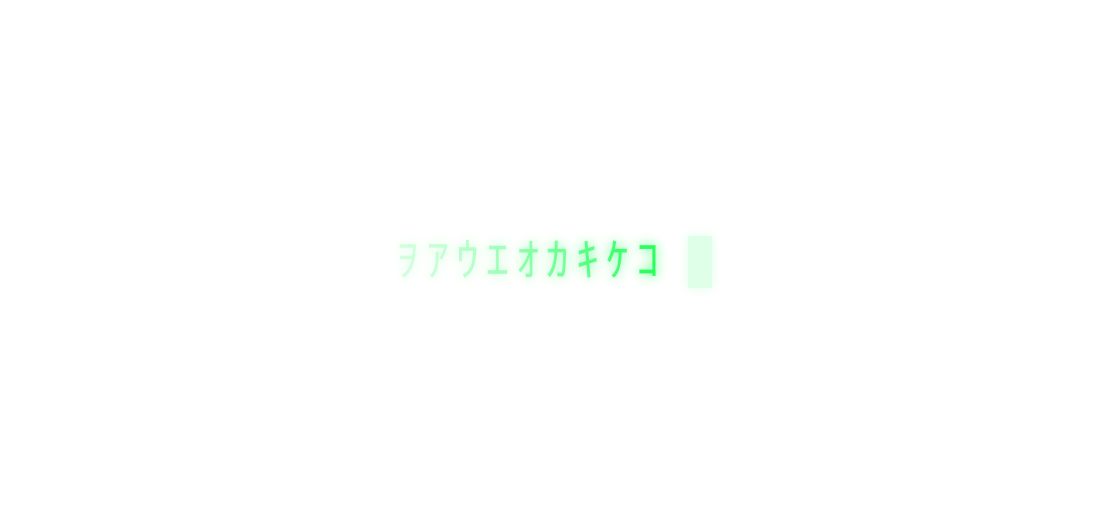
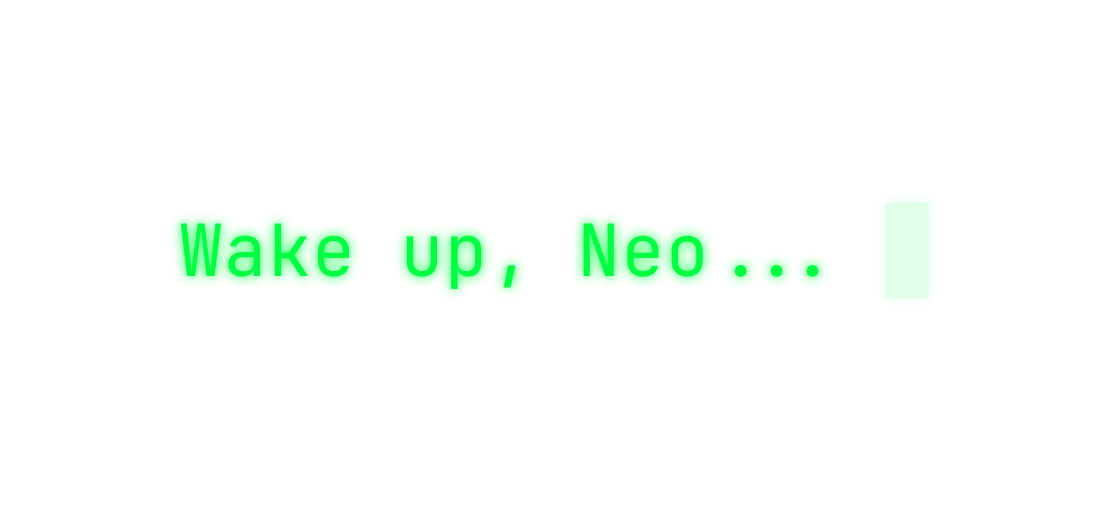
El arranque teclea la frase, derivando el script de Plymouth
El splash de Omarchy es un tema de SCRIPT (omarchy.script, ModuleName=script) y
lo que `omarchy plymouth set-by-theme` deja cambiar son tres cosas: fondo, color
de texto y un PNG estatico. Por esa puerta no entra una animacion — es la misma
forma de techo que tenia el lock.

Asi que se deriva igual: se parte del omarchy.script de la maquina y se le
sustituye el logo estatico por las cuatro frases del principio de la pelicula,
tecleadas. Todo lo demas (dialogo de contrasena, barra de progreso, mensajes) es
el de Omarchy sin tocar, y se instala como tema APARTE en
/usr/share/plymouth/themes/omarchy-matrix/ para no pisar el suyo.

Tres decisiones que conviene explicar:

- La tabla de pasos se genera en Python y llega al .script con cada texto ya
  literal. Asi el script no necesita SubString, Length ni concatenar cadenas, que
  es codigo que no puedo probar sin arrancar la maquina.
- El cuerpo de la letra se calcula al derivar desde el ancho NATIVO del panel
  (aqui 3072 px -> 61 pt). Plymouth dibuja a resolucion nativa, no a la logica:
  un cuerpo pensado para 1080p saldria diminuto en este portatil.
- logo.png se sigue cargando aunque invisible. Su caja es la que usa
  omarchy.script para colocar el dialogo de contrasena, y no queremos moverlo.

Sobre el riesgo, que aqui es real: este disco es LUKS y el hook `encrypt` esta en
mkinitcpio.conf, o sea que Plymouth es tambien quien pide la frase de paso. Por
[…]

Changed region(s): [[0.1534, 0.3977, 0.7671, 0.5813], [0.7978, 0.3671, 0.8592, 0.5813]]

diff --git a/bin/derivar-plymouth.py b/bin/derivar-plymouth.py
@@ -1,0 +1,319 @@
+#!/usr/bin/env python3
+"""Deriva un arranque Matrix a partir del Plymouth que tenga esta maquina.
+
+El splash de Omarchy es un tema de SCRIPT (`omarchy.script`), y lo que
+`omarchy plymouth set-by-theme` deja cambiar son tres cosas: color de fondo,
+color de texto y un PNG estatico. Por esa puerta no entra una animacion.
+
+Asi que se hace como con el lock: se parte del `omarchy.script` de
+$OMARCHY_PATH y se le aplica un parche minimo que sustituye el logo estatico
+por la linea que se teclea. Todo lo demas —dialogo de contrasena, barra de
+progreso, mensajes de arranque— es el de Omarchy, sin tocar. Un hook
+post-update.d vuelve a derivarlo tras cada `omarchy update`.
+
+Se instala como tema APARTE, /usr/share/plymouth/themes/omarchy-matrix/, para
+no pisar el de Omarchy: volver es `omarchy plymouth reset`.
+
+    ./derivar-plymouth.py --preparar        # solo construye, sin sudo
+    ./derivar-plymouth.py                   # construye e instala
+
+OJO: el disco de esta maquina esta cifrado, asi que Plymouth es tambien quien
+pide la frase de paso al arrancar. Por eso el parche es aditivo y no toca
+ninguno de los callbacks de contrasena, y por eso se instala aparte.
+"""
+
+import os
+import re
+import shutil
+import subprocess
+import sys
+import tempfile
+from pathlib import Path
+
+OMARCHY = Path(os.environ.get("OMARCHY_PATH", "/usr/share/omarchy"))
+ORIGEN = OMARCHY / "default/plymouth"
+TEMA = "omarchy-matrix"
+DESTINO = Path("/usr/share/plymouth/themes") / TEMA
+
+# Las cuatro frases del principio de la pelicula, en orden.
+FRASES = [
+    "Wake up, Neo...",
+    "The Matrix has you...",
+    "Follow the white rabbit.",
+    "Knock, knock, Neo.",
+]
+CURSOR = "█"          # bloque lleno: el cursor del terminal
+FUENTE = "JetBrainsMono Nerd Font"
+# El cuerpo NO es fijo: Plymouth dibuja a la resolucion NATIVA del panel, no a
+# la logica. En este portatil son 3072 px, asi que un cuerpo pensado para 1080p
+# saldria diminuto. Se calcula al derivar, que es cuando se sabe en que maquina
+# estamos, y se escribe en el .plymouth.
+ANCHO_LINEA = 0.40         # que fraccion del ancho de pantalla ocupa la frase larga
+AVANCE_MONO = 0.60         # ancho de celda / em en JetBrains Mono
+FPS = 50                   # el que asume omarchy.script
+PASOS_LETRA = 3            # fotogramas por caracter -> ~17 pulsaciones/s
+ESPERA = 15                # fotogramas por medio parpadeo del cursor
+PARPADEOS = 4              # medios parpadeos al terminar cada frase
+
+
+def morir(mensaje):
+    print(f"derivar-plymouth: {mensaje}", file=sys.stderr)
+    sys.exit(1)
+
+
+def ancho_pantalla():
+    """El ancho NATIVO del monitor mas grande. Plymouth no sabe de escalado."""
+    try:
+        import json
+        salida = subprocess.run(["hyprctl", "monitors", "-j"],
+                                capture_output=True, text=True, check=True).stdout
+        anchos = [m["width"] for m in json.loads(salida)]
+        return max(anchos) if anchos else 1920
+    except Exception:
+        return 1920
+
+
+def cuerpo_para(ancho):
+    """Puntos para que la frase mas larga ocupe ANCHO_LINEA de la pantalla."""
+    celdas = max(len(f) for f in FRASES) + 1          # +1 por el cursor
+    px_celda = (ancho * ANCHO_LINEA) / celdas
+    return max(12, round(px_celda / AVANCE_MONO * 0.75))   # px -> puntos a 96 dpi
+
+
+def fuente_disponible():
+    """La fuente tiene que existir: el hook de mkinitcpio la resuelve con
+    fc-match desde el `Font=` del .plymouth y la mete en el initramfs. Si no
+    esta, el arranque se quedaria sin texto."""
+    try:
+        salida = subprocess.run(["fc-match", "-f", "%{family}", FUENTE],
+                                capture_output=True, text=True, check=True).stdout
+    except (OSError, subprocess.CalledProcessError):
+        return "monospace"
+    return FUENTE if FUENTE.lower() in salida.lower() else "monospace"
+
+
+def guion_animacion():
+    """El guion de la animacion, ya resuelto en pasos.
+
+    Se genera aqui y no en el script de Plymouth a proposito: asi el .script no
+    necesita SubString, Length ni concatenar cadenas. Cada paso lleva su texto
+    literal, cuantos fotogramas dura y a que frase pertenece (para colocar la X).
+    """
+    txt, dur, frase = [], [], []
+    for i, f in enumerate(FRASES):
+        for n in range(1, len(f) + 1):
+            txt.append(f[:n] + CURSOR)
+            dur.append(PASOS_LETRA)
+            frase.append(i)
+        for p in range(PARPADEOS):
+            txt.append(f + (" " if p % 2 else CURSOR))
+            dur.append(ESPERA)
+            frase.append(i)
+    return txt, dur, frase
+
+
+def literal(cadena):
+    return '"' + cadena.replace("\\", "\\\\").replace('"', '\\"') + '"'
+
+
+def bloque_matrix():
+    txt, dur, frase = guion_animacion()
+    anchos = "\n".join(
+        f'  global.mx_ancho[{i}] = Image.Text({literal(f + CURSOR)}, '
+        f'global.mx_r, global.mx_g, global.mx_b).GetWidth();'
+        for i, f in enumerate(FRASES))
+    tabla = "\n".join(
+        f'global.mx_txt[{i}] = {literal(t)}; global.mx_dur[{i}] = {d}; '
+        f'global.mx_frase[{i}] = {p};'
+        for i, (t, d, p) in enumerate(zip(txt, dur, frase)))
+
+    return f'''
+#----------------------------------------- Matrix -----------------------------
+# Puesto aqui por omarchy-matrix. NO edites este fichero a mano: se vuelve a
+# derivar del omarchy.script de Omarchy en cada `omarchy update`.
+#
+# Sustituye el logo estatico por la linea que se teclea. logo.png se sigue
+# cargando, pero invisible: su caja es la que usa el dialogo de contrasena de
+# mas abajo para colocarse, y no queremos mover nada de sitio.
+#
+# La tabla de pasos viene generada: cada entrada trae su texto literal, asi que
+# aqui no hace falta cortar ni concatenar cadenas.
+
+global.mx_r = 0.0;
+global.mx_g = 1.0;
+global.mx_b = 0.255;
+
+global.mx_pasos = {len(txt)};
+{tabla}
+
+global.mx_paso = 0;
+global.mx_frame = 0;
+global.mx_pintado = "";
+global.mx_cx = Window.GetWidth() / 2;
+global.mx_cy = logo.sprite.GetY() + logo.image.GetHeight() / 2;
+
+mx.sprite = Sprite();
+
+fun mx_medir() {{
+{anchos}
+}}
+
+mx_medir();
+
+fun mx_pintar(indice) {{
+  texto = global.mx_txt[indice];
+  if (texto == global.mx_pintado) return;
+  global.mx_pintado = texto;
+
+  imagen = Image.Text(texto, global.mx_r, global.mx_g, global.mx_b);
+  # X fija por frase: la linea crece hacia la derecha desde un borde estable en
+  # vez de recentrarse en cada letra, que es como se escribe en un terminal.
+  x = global.mx_cx - global.mx_ancho[global.mx_frase[indice]] / 2;
+  mx.sprite.SetImage(imagen);
+  mx.sprite.SetPosition(x, global.mx_cy - imagen.GetHeight() / 2, 10000);
+}}
+
+fun mx_tick() {{
+  if (global.mx_paso >= global.mx_pasos) return;
+
+  if (global.mx_pintado == "") {{
+    mx_pintar(0);
+    return;
+  }}
+
+  global.mx_frame++;
+  if (global.mx_frame < global.mx_dur[global.mx_paso]) return;
+
+  global.mx_frame = 0;
+  global.mx_paso++;
+  # Al llegar al final se queda en la ultima frase, sin repetir el ciclo: un
+  # arranque dura menos que la animacion entera y volver a empezar se notaria.
+  if (global.mx_paso >= global.mx_pasos) return;
+  mx_pintar(global.mx_paso);
+}}
+'''
+
+
+def parchear(texto):
+    # 1. El logo deja de verse, pero se sigue cargando: su caja coloca el
+    #    dialogo de contrasena.
+    ancla = "logo.sprite.SetOpacity(1);"
+    if texto.count(ancla) != 1:
+        morir(f"esperaba un unico `{ancla}` en omarchy.script y hay "
+              f"{texto.count(ancla)}. El splash de Omarchy ha cambiado: no lo toco.")
+    texto = texto.replace(
+        ancla,
+        "logo.sprite.SetOpacity(0);  # la marca la teclea mx_tick(), mas abajo\n"
+        + bloque_matrix())
+
+    # 2. Enganchar la animacion al refresco de 50 fps que ya existe.
+    ancla = "fun refresh_callback() {"
+    if texto.count(ancla) != 1:
+        morir("no encuentro refresh_callback() en omarchy.script: no lo toco.")
+    texto = texto.replace(ancla, ancla + "\n  mx_tick();")
+    return texto
+
+
+def preparar(destino, colores):
+    bg, fg, logo = colores
+    if not (ORIGEN / "omarchy.script").is_file():
+        morir(f"no encuentro el Plymouth de Omarchy en {ORIGEN}")
+    if not Path(logo).is_file():
+        morir(f"no encuentro el logo del tema: {logo}")
+
+    for f in ORIGEN.iterdir():
+        if f.is_file():
+            shutil.copy2(f, destino / f.name)
+    shutil.copy2(logo, destino / "logo.png")
+
+    # Mismo retintado de piezas que hace omarchy-plymouth-set.
+    for pieza in ("bullet.png", "entry.png", "lock.png", "progress_bar.png"):
+        ruta = destino / pieza
+        if ruta.is_file():
+            subprocess.run(["magick", str(ruta), "-channel", "RGB",
+                            "+level-colors", f"#{fg},#{fg}", str(ruta)], check=True)
+
+    r, g, b = (int(bg[i:i + 2], 16) / 255 for i in (0, 2, 4))
+    guion = (destino / "omarchy.script").read_text()
+    guion = re.sub(r"^Window\.SetBackgroundTopColor.*$",
+                   f"Window.SetBackgroundTopColor({r:.3f}, {g:.3f}, {b:.3f});",
+                   guion, count=1, flags=re.M)
+    guion = re.sub(r"^Window\.SetBackgroundBottomColor.*$",
+                   f"Window.SetBackgroundBottomColor({r:.3f}, {g:.3f}, {b:.3f});",
+                   guion, count=1, flags=re.M)
+    guion = parchear(guion)
+
+    (destino / f"{TEMA}.script").write_text(guion)
+    (destino / "omarchy.script").unlink()
+    (destino / "omarchy.plymouth").unlink(missing_ok=True)
+
+    fuente = fuente_disponible()
+    ancho = ancho_pantalla()
+    cuerpo = cuerpo_para(ancho)
+    (destino / f"{TEMA}.plymouth").write_text(f"""[Plymouth Theme]
+Name=Omarchy Matrix
+Description=El splash de Omarchy con la linea del principio de la pelicula.
+
+ModuleName=script
+
+[script]
+ImageDir={DESTINO}
+ScriptFile={DESTINO}/{TEMA}.script
+ConsoleLogBackgroundColor=0x{bg}
+MonospaceFont={fuente} {cuerpo}
+Font={fuente} {cuerpo}
+""")
+    return fuente, ancho, cuerpo
+
+
+def color_del_tema(clave, tema_dir):
+    for linea in (tema_dir / "colors.toml").read_text().splitlines():
+        if "=" in linea:
+            k, v = linea.split("=", 1)
+            if k.strip() == clave:
+                return v.strip().strip('"').lstrip("#")
+    morir(f"falta `{clave}` en colors.toml")
+
+
+def main():
+    solo_preparar = "--preparar" in sys.argv
+    tema_dir = Path(subprocess.run(["omarchy-theme-dir", "matrix"],
+                                   capture_output=True, text=True,
+                                   check=True).stdout.strip())
+
+    colores = (color_del_tema("background", tema_dir),
+               color_del_tema("foreground", tema_dir),
+               tema_dir / "unlock.png")
+
+    escenario = Path(tempfile.mkdtemp(prefix="matrix-plymouth."))
+    try:
+        fuente, ancho, cuerpo = preparar(escenario, colores)
+        pasos = len(guion_animacion()[0])
+        segundos = sum(guion_animacion()[1]) / FPS
+        print(f"  {TEMA}: {pasos} pasos, {segundos:.1f}s de animacion")
+        print(f"  fuente {fuente!r} a {cuerpo} pt, calculado para un panel de {ancho} px")
+
+        if solo_preparar:
+            final = Path.home() / ".cache/omarchy-matrix/plymouth"
+            final.parent.mkdir(parents=True, exist_ok=True)
+            shutil.rmtree(final, ignore_errors=True)
+            shutil.copytree(escenario, final)
+            print(f"  preparado en {final} (sin instalar)")
+            return
+
+        subprocess.run(["sudo", "mkdir", "-p", str(DESTINO)], check=True)
+        subprocess.run(["sudo", "cp", "-a", "--no-preserve=mode,ownership",
+                        f"{escenario}/.", f"{DESTINO}/"], check=True)
+        subprocess.run(["sudo", "plymouth-set-default-theme", TEMA], check=True)
+
+        if shutil.which("limine-mkinitcpio"):
+            subprocess.run(["sudo", "limine-mkinitcpio"], check=True)
+        else:
+            subprocess.run(["sudo", "mkinitcpio", "-P"], check=True)
+        print(f"  instalado y por defecto. Volver: omarchy plymouth reset")
+    finally:
+        shutil.rmtree(escenario, ignore_errors=True)
+
+
+if __name__ == "__main__":
+    main()

diff --git a/generar-marca.py b/generar-marca.py
@@ -94,36 +94,29 @@ FOSFORO = f'''
 def marca(w=1108, h=523, fondo=None):
     """La marca del splash. `fondo` en None deja alfa (lo que Plymouth necesita).
 
-    Sin logotipo y sin wordmark: una linea a medio teclear y el bloque de cursor
-    del terminal, y ya. Antes esto era "MATRIX" en 104 px con "WAKE UP" debajo,
-    que convertia el arranque en un cartel de la pelicula en vez de dar el
-    ambiente, que es lo que se busca.
+    La linea del principio de la pelicula, escrita en el terminal, con su bloque
+    de cursor detras. Sigue sin haber logotipo ni wordmark: es una frase que se
+    lee, no un cartel. Antes esto era "MATRIX" en 104 px con "WAKE UP" debajo, y
+    eso si convertia el arranque en un poster.
+
+    El cursor va DENTRO del <text>, como un caracter mas, y toda la linea se
+    centra con text-anchor="middle". Asi no hay que adivinar el avance de la
+    fuente para colocarlo: en una monoespaciada, el bloque ocupa exactamente una
+    celda y el centrado sale solo.
     """
     base = f'<rect width="{w}" height="{h}" fill="{fondo}"/>' if fondo else ""
 
-    # Katakana de media anchura, los mismos de ttfx. Van encendiendose hacia la
-    # derecha, como si se estuvieran escribiendo, y el cursor cierra la linea.
-    glifos = "ｦｱｳｴｵｶｷｹｺ"
-    tam = 46
-    paso = 30
-    ancho_linea = len(glifos) * paso + 22 + 24
-    x0 = (1108 - ancho_linea) / 2
+    frase = "Wake up, Neo..."
+    tam = 72
     y = 276
 
-    letras = []
-    for i, ch in enumerate(glifos):
-        t = i / (len(glifos) - 1)
-        op = 0.16 + 0.64 * (t ** 1.5)
-        letras.append(f'<text x="{x0 + i * paso}" y="{y}" font-family="{CJK}" '
-                      f'font-size="{tam}" fill="{ACCENT}" opacity="{op:.2f}">{ch}</text>')
-
-    cursor_x = x0 + len(glifos) * paso + 22
     return f'''<svg xmlns="http://www.w3.org/2000/svg" width="{w}" height="{h}" viewBox="0 0 1108 523">
   <defs>{FOSFORO}</defs>
   {base}
   <g filter="url(#fosforo)">
-    {"".join(letras)}
-    <rect x="{cursor_x}" y="{y - 40}" width="24" height="52" fill="{BRIGHT}"/>
+    <text x="554" y="{y}" text-anchor="middle" xml:space="preserve"
+          font-family="{MONO}" font-size="{tam}" fill="{ACCENT}"
+          letter-spacing="1">{frase} <tspan fill="{BRIGHT}">\u2588</tspan></text>
   </g>
 </svg>'''
 
